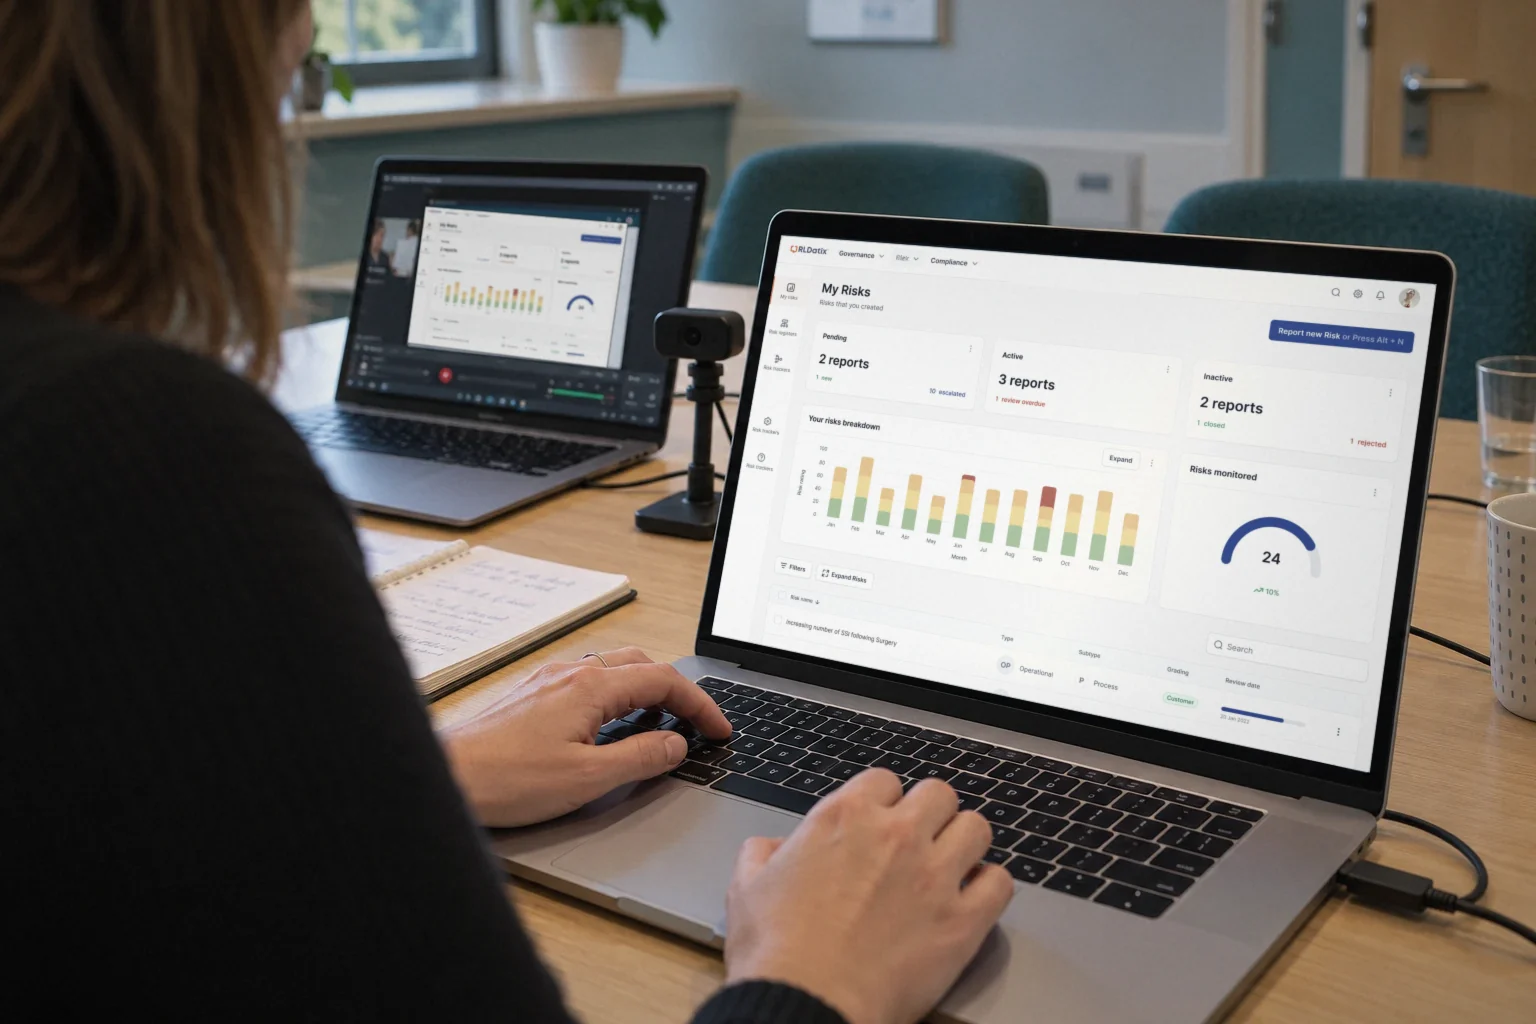
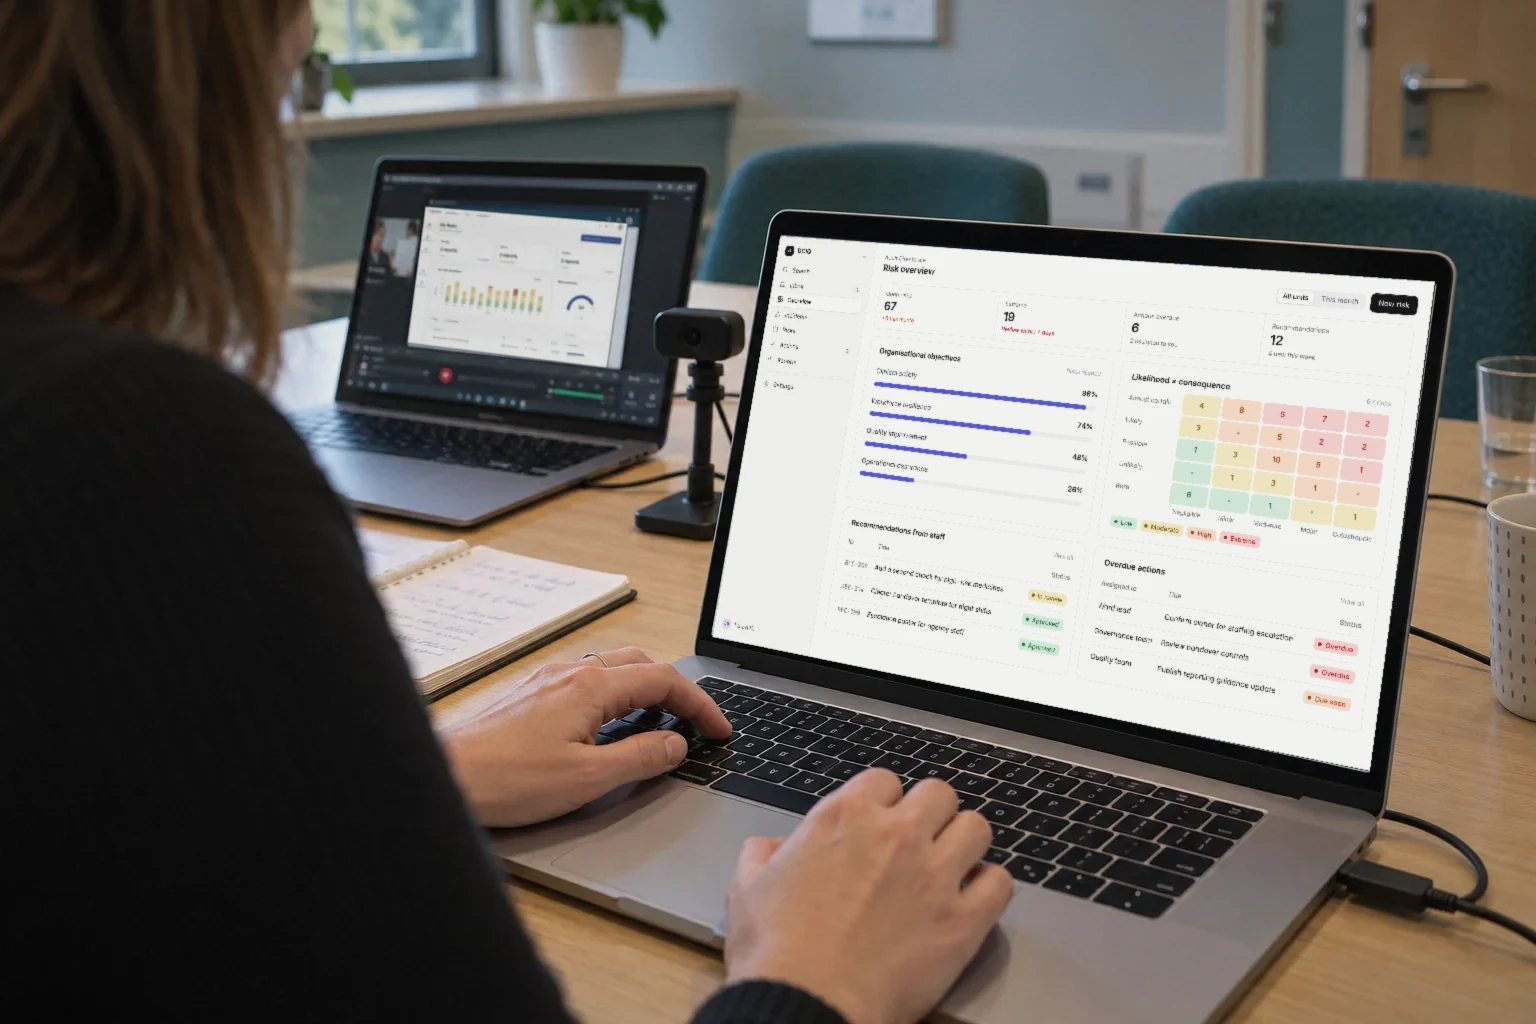
RLDatix: put the redesigned dashboard on the usability-test photo; consistent matrix totals
Claude-Session: https://claude.ai/code/session_019ui8k7Dsyc7QBDNyg3Qkj1

Changed region(s): [[0.5, 0.2188, 0.9375, 0.6562], [0.75, 0.5625, 0.9062, 0.75], [0.4688, 0.5938, 0.5, 0.625]]

diff --git a/case-study-rldatix.html b/case-study-rldatix.html
@@ -293,7 +293,7 @@
 <link rel="shortcut icon" href="favicon.ico?v=flower-2">
 <link rel="icon" type="image/svg+xml" href="favicon.svg?v=flower-2">
 
-<link rel="stylesheet" href="headings.css?v=4"><link rel="stylesheet" href="case-layout.css?v=2"><link rel="stylesheet" href="rldatix-studio.css?v=6"><link rel="stylesheet" href="rldatix-system.css?v=3"><script src="i18n.js?v=3"></script></head><body class="flex-case" id="top"><a class="skip-link" href="#v3-section-0">Skip to case study</a><div class="cursor" aria-hidden="true"></div><div class="cursor-dot" aria-hidden="true"></div><div class="progress" aria-hidden="true"><div class="progress-bar" id="progressBar"></div></div>
+<link rel="stylesheet" href="headings.css?v=4"><link rel="stylesheet" href="case-layout.css?v=2"><link rel="stylesheet" href="rldatix-studio.css?v=7"><link rel="stylesheet" href="rldatix-system.css?v=3"><script src="i18n.js?v=3"></script></head><body class="flex-case" id="top"><a class="skip-link" href="#v3-section-0">Skip to case study</a><div class="cursor" aria-hidden="true"></div><div class="cursor-dot" aria-hidden="true"></div><div class="progress" aria-hidden="true"><div class="progress-bar" id="progressBar"></div></div>
 <div class="page case-page"><nav class="nav" aria-label="Main navigation"><a class="nav-back" href="index.html"><span aria-hidden="true">←</span> Go back</a><ul class="nav-links"><li><a href="index.html#contact">Contact</a></li></ul></nav>
 
 <main>
@@ -305,10 +305,10 @@
 
 <figure class="rld-laptop rld-compare-laptop rs-surface rs-linen" data-comparison><div class="rld-laptop-hardware"><div class="rld-laptop-shell"><div class="rld-compare-scroll" tabindex="0" role="region" aria-label="Explore a legacy risk register and my redesigned risk dashboard. Scroll vertically to view both screens."><div class="rld-compare" data-compare-screen style="--split:50%"><div class="rs hd-wrap" data-no-i18n aria-hidden="true"><div class="hd rs-app"><aside class="rs-side" data-rs-side="Overview"></aside><div class="rs-main">
 <div class="rs-main-top"><div><span class="rs-crumb">Adult Directorate</span><h4>Risk overview</h4></div><div class="rs-top-actions"><span class="rs-seg"><b>All units</b><span>This month</span></span><span class="rs-btn">New risk</span></div></div>
-<div class="rs-kpis"><div><small>Open risks</small><strong>78</strong><em class="up">+6 this month</em></div><div><small>Extreme</small><strong>19</strong><em class="down">Review within 7 days</em></div><div><small>Actions overdue</small><strong>6</strong><em>2 assigned to you</em></div><div><small>Recommendations</small><strong>12</strong><em>4 new this week</em></div></div>
+<div class="rs-kpis"><div><small>Open risks</small><strong>67</strong><em class="up">+6 this month</em></div><div><small>Extreme</small><strong>19</strong><em class="down">Review within 7 days</em></div><div><small>Actions overdue</small><strong>6</strong><em>2 assigned to you</em></div><div><small>Recommendations</small><strong>12</strong><em>4 new this week</em></div></div>
 <div class="hd-grid">
 <section class="rs-pane"><header><strong>Organisational objectives</strong><small>Risks aligned</small></header><div class="hd-obj"><div><span>Clinical safety</span><b>96%</b></div><span class="rs-bar"><i style="width:96%"></i></span></div><div class="hd-obj"><div><span>Workforce resilience</span><b>74%</b></div><span class="rs-bar"><i style="width:74%"></i></span></div><div class="hd-obj"><div><span>Quality improvement</span><b>48%</b></div><span class="rs-bar"><i style="width:48%"></i></span></div><div class="hd-obj"><div><span>Operational assurance</span><b>26%</b></div><span class="rs-bar"><i style="width:26%"></i></span></div></section>
-<section class="rs-pane"><header><strong>Likelihood × consequence</strong><small>78 risks</small></header><div class="rs-matrix"><span class="ax">Almost certain</span><span class="rs-cell" data-band="mod" data-count="4">4</span><span class="rs-cell" data-band="high" data-count="8">8</span><span class="rs-cell" data-band="ext" data-count="5">5</span><span class="rs-cell" data-band="ext" data-count="7">7</span><span class="rs-cell" data-band="ext" data-count="2">2</span><span class="ax">Likely</span><span class="rs-cell" data-band="mod" data-count="3">3</span><span class="rs-cell" data-band="high" data-count="0">0</span><span class="rs-cell" data-band="high" data-count="5">5</span><span class="rs-cell" data-band="ext" data-count="2">2</span><span class="rs-cell" data-band="ext" data-count="2">2</span><span class="ax">Possible</span><span class="rs-cell" data-band="low" data-count="1">1</span><span class="rs-cell" data-band="mod" data-count="3">3</span><span class="rs-cell" data-band="high" data-count="10">10</span><span class="rs-cell" data-band="high" data-count="5">5</span><span class="rs-cell" data-band="ext" data-count="1">1</span><span class="ax">Unlikely</span><span class="rs-cell" data-band="low" data-count="0">0</span><span class="rs-cell" data-band="mod" data-count="1">1</span><span class="rs-cell" data-band="mod" data-count="3">3</span><span class="rs-cell" data-band="high" data-count="1">1</span><span class="rs-cell" data-band="high" data-count="0">0</span><span class="ax">Rare</span><span class="rs-cell" data-band="low" data-count="6">6</span><span class="rs-cell" data-band="low" data-count="0">0</span><span class="rs-cell" data-band="low" data-count="1">1</span><span class="rs-cell" data-band="mod" data-count="0">0</span><span class="rs-cell" data-band="mod" data-count="1">1</span><span></span><span class="ax col">Negligible</span><span class="ax col">Minor</span><span class="ax col">Moderate</span><span class="ax col">Major</span><span class="ax col">Catastrophic</span></div><div class="hd-legend"><span class="rs-chip low">Low</span><span class="rs-chip mod">Moderate</span><span class="rs-chip high">High</span><span class="rs-chip ext">Extreme</span></div></section>
+<section class="rs-pane"><header><strong>Likelihood × consequence</strong><small>67 risks</small></header><div class="rs-matrix"><span class="ax">Almost certain</span><span class="rs-cell" data-band="mod" data-count="4">4</span><span class="rs-cell" data-band="high" data-count="8">8</span><span class="rs-cell" data-band="ext" data-count="5">5</span><span class="rs-cell" data-band="ext" data-count="7">7</span><span class="rs-cell" data-band="ext" data-count="2">2</span><span class="ax">Likely</span><span class="rs-cell" data-band="mod" data-count="3">3</span><span class="rs-cell" data-band="high" data-count="0">0</span><span class="rs-cell" data-band="high" data-count="5">5</span><span class="rs-cell" data-band="ext" data-count="2">2</span><span class="rs-cell" data-band="ext" data-count="2">2</span><span class="ax">Possible</span><span class="rs-cell" data-band="low" data-count="1">1</span><span class="rs-cell" data-band="mod" data-count="3">3</span><span class="rs-cell" data-band="high" data-count="10">10</span><span class="rs-cell" data-band="high" data-count="5">5</span><span class="rs-cell" data-band="ext" data-count="1">1</span><span class="ax">Unlikely</span><span class="rs-cell" data-band="low" data-count="0">0</span><span class="rs-cell" data-band="mod" data-count="1">1</span><span class="rs-cell" data-band="mod" data-count="3">3</span><span class="rs-cell" data-band="high" data-count="1">1</span><span class="rs-cell" data-band="high" data-count="0">0</span><span class="ax">Rare</span><span class="rs-cell" data-band="low" data-count="6">6</span><span class="rs-cell" data-band="low" data-count="0">0</span><span class="rs-cell" data-band="low" data-count="1">1</span><span class="rs-cell" data-band="mod" data-count="0">0</span><span class="rs-cell" data-band="mod" data-count="1">1</span><span></span><span class="ax col">Negligible</span><span class="ax col">Minor</span><span class="ax col">Moderate</span><span class="ax col">Major</span><span class="ax col">Catastrophic</span></div><div class="hd-legend"><span class="rs-chip low">Low</span><span class="rs-chip mod">Moderate</span><span class="rs-chip high">High</span><span class="rs-chip ext">Extreme</span></div></section>
 <section class="rs-pane"><header><strong>Recommendations from staff</strong><small>View all</small></header><table class="hd-table"><thead><tr><th>ID</th><th>Title</th><th>Status</th></tr></thead><tbody><tr><td class=mono>REC-208</td><td>Add a second check for high-risk medicines</td><td><span class="rs-chip mod">In review</span></td></tr><tr><td class=mono>REC-204</td><td>Clearer handover template for night shifts</td><td><span class="rs-chip low">Approved</span></td></tr><tr><td class=mono>REC-199</td><td>Escalation poster for agency staff</td><td><span class="rs-chip low">Approved</span></td></tr></tbody></table></section>
 <section class="rs-pane"><header><strong>Overdue actions</strong><small>View all</small></header><table class="hd-table"><thead><tr><th>Assigned to</th><th>Title</th><th>Status</th></tr></thead><tbody><tr><td>Ward lead</td><td>Confirm owner for staffing escalation</td><td><span class="rs-chip ext">Overdue</span></td></tr><tr><td>Governance team</td><td>Review handover controls</td><td><span class="rs-chip ext">Overdue</span></td></tr><tr><td>Quality team</td><td>Publish reporting guidance update</td><td><span class="rs-chip high">Due soon</span></td></tr></tbody></table></section>
 </div></div></div></div><div class="rld-compare-old"><img class="rld-compare-image" src="assets/rldatix/legacy-laptop-outlined.svg" alt="Legacy DCIQ risk register shown for context" width="614" height="518" loading="lazy" draggable="false"></div><span class="rld-compare-divider" aria-hidden="true"><span>↔</span></span><input class="rld-compare-range" data-compare-range type="range" min="0" max="100" value="50" aria-label="Explore the legacy risk register and the redesigned dashboard" aria-valuetext="Showing both screens"></div></div></div><div class="rld-laptop-hinge" aria-hidden="true"></div><div class="rld-laptop-deck" aria-hidden="true"><div class="rld-laptop-deck-plane"><div class="rld-speaker rld-speaker-left"></div><div class="rld-keyboard"><div class="rld-key-row"><span class="rld-key is-wide"></span><span class="rld-key"></span><span class="rld-key"></span><span class="rld-key"></span><span class="rld-key"></span><span class="rld-key"></span><span class="rld-key"></span><span class="rld-key"></span><span class="rld-key"></span><span class="rld-key"></span><span class="rld-key"></span><span class="rld-key"></span><span class="rld-key"></span><span class="rld-key is-wide"></span></div><div class="rld-key-row"><span class="rld-key is-wide"></span><span class="rld-key"></span><span class="rld-key"></span><span class="rld-key"></span><span class="rld-key"></span><span class="rld-key"></span><span class="rld-key"></span><span class="rld-key"></span><span class="rld-key"></span><span class="rld-key"></span><span class="rld-key"></span><span class="rld-key"></span><span class="rld-key"></span><span class="rld-key is-wide"></span></div><div class="rld-key-row"><span class="rld-key is-wide"></span><span class="rld-key"></span><span class="rld-key"></span><span class="rld-key"></span><span class="rld-key"></span><span class="rld-key"></span><span class="rld-key"></span><span class="rld-key"></span><span class="rld-key"></span><span class="rld-key"></span><span class="rld-key"></span><span class="rld-key"></span><span class="rld-key"></span><span class="rld-key is-wide"></span></div><div class="rld-key-row"><span class="rld-key is-wide"></span><span class="rld-key"></span><span class="rld-key"></span><span class="rld-key"></span><span class="rld-key"></span><span class="rld-key"></span><span class="rld-key"></span><span class="rld-key"></span><span class="rld-key"></span><span class="rld-key"></span><span class="rld-key"></span><span class="rld-key"></span><span class="rld-key"></span><span class="rld-key is-wide"></span></div><div class="rld-key-row"><span class="rld-key is-wide"></span><span class="rld-key"></span><span class="rld-key"></span><span class="rld-key is-space"></span><span class="rld-key"></span><span class="rld-key"></span><span class="rld-key"></span><span class="rld-key is-wide"></span></div></div><div class="rld-speaker rld-speaker-right"></div><div class="rld-trackpad"></div></div></div><div class="rld-laptop-base" aria-hidden="true"></div></div>
@@ -564,11 +564,11 @@
 </section>
 <section class="cx-full rld-research" id="v3-section-5"><span class="mono-label">04 / TESTING</span><h2>Test the decisions.<br>Listen to the people using them.</h2>
 <p>I tested the designs with healthcare professionals and used their feedback to decide what to keep, change and improve.</p>
-<figure class="rld-research-photo"><img src="assets/rldatix/research-laptop.webp?v=2" alt="Illustrative reconstruction of laptop usability testing with the RLDatix risk-management interface" width="1536" height="1024" loading="lazy"></figure>
+<figure class="rld-research-photo"><img src="assets/rldatix/research-laptop.webp?v=3" alt="Illustrative reconstruction of a usability test, with the redesigned risk dashboard on the laptop" width="1536" height="1024" loading="lazy"></figure>
 <div class="rld-research-case"><div class="rld-research-case-heading"><span class="mono-label">A DECISION CHANGED BY RESEARCH</span><h3>Familiar language mattered more than a simpler label.</h3></div><ol class="rld-research-steps"><li><span>01 / HYPOTHESIS</span><h4>Try a clearer name</h4><p>Could “Grouped Risks” make “Risk trackers” easier to understand?</p></li><li><span>02 / FINDING</span><h4>Familiarity was clearer</h4><p>Clinicians already understood “Risk trackers”. A new label added confusion.</p></li><li><span>03 / DECISION</span><h4>Keep the term. Improve the flow.</h4><p>I kept “Risk trackers” and improved navigation hierarchy and the visibility of risk actions.</p></li></ol></div>
 <div class="rld-research-takeaway"><span class="mono-label">THE TAKEAWAY</span><p>Simplifying the interface doesn’t always mean changing its language.</p></div>
 <div class="rld-research-findings"><div><span class="mono-label">PROTOTYPE FINDINGS</span><h3>What we refined.<br>What came next.</h3></div><div><article><h4>Refine the experience</h4><p>Sessions highlighted navigation and dashboard content that needed work.</p></article><article><h4>Plan the next iteration</h4><p>Printing, sharing and a personal dashboard became priorities for later work.</p></article></div></div></section>
-</main><dialog class="rld-report-dialog" id="rld-report-dialog" aria-labelledby="rld-report-dialog-title"><div class="rld-report-dialog-inner"><button class="rld-report-dialog-close" type="button" aria-label="Close report form">×</button><span class="mono-label">NEW INCIDENT REPORT</span><h2 id="rld-report-dialog-title">Start a report</h2><p class="rld-report-dialog-intro">Add a few details so the right team can follow up.</p><div class="rld-dialog-category"><span class="rld-dialog-category-icon" id="rld-dialog-category-icon" aria-hidden="true"></span><div><small>EVENT TYPE</small><strong id="rld-dialog-category">Incident</strong></div></div><label class="rld-dialog-field">What happened?<textarea rows="3" placeholder="Briefly describe the event"></textarea></label><label class="rld-dialog-field">Where did it happen?<select><option value="">Choose a location</option><option>Ward 3</option><option>Emergency department</option><option>Other</option></select></label><div class="rld-dialog-actions"><button class="rld-dialog-cancel" type="button">Cancel</button><button class="rld-dialog-continue" type="button">Continue</button></div></div></dialog><footer class="footer" id="contact"><div class="footer-inner"><h2 class="footer-title">Let’s make products feel clear and useful.</h2><div class="footer-actions"><a class="pill-button" href="mailto:lrsmpdr@gmail.com" target="_blank" rel="noopener noreferrer">Email me ↗</a><a href="https://www.linkedin.com/in/laura-sampedro/" target="_blank" rel="noopener noreferrer">LinkedIn ↗</a></div><div class="footer-row"><span class="mono-label">© 2026 Laura Sampedro de la Rosa</span><a class="mono-label" href="#top">Back to top ↑</a></div></div></footer></div><script>if(I18n.lang==="es")document.write('<script src="i18n-es.js?v=14"><\/script>')</script><script>I18n.run()</script><script src="script.js"></script><script src="case-study.js"></script><dialog class="fv-lightbox" aria-label="Product screen detail"><button class="fv-close" type="button" aria-label="Close enlarged screen">Close ×</button><img alt=""></dialog><script src="case-media.js?v=2"></script><script src="case-experience.js?v=1"></script><script src="rldatix-laptop.js?v=3"></script><script src="rldatix-showcase.js?v=1"></script><script src="rldatix-studio.js?v=5"></script><script>
+</main><dialog class="rld-report-dialog" id="rld-report-dialog" aria-labelledby="rld-report-dialog-title"><div class="rld-report-dialog-inner"><button class="rld-report-dialog-close" type="button" aria-label="Close report form">×</button><span class="mono-label">NEW INCIDENT REPORT</span><h2 id="rld-report-dialog-title">Start a report</h2><p class="rld-report-dialog-intro">Add a few details so the right team can follow up.</p><div class="rld-dialog-category"><span class="rld-dialog-category-icon" id="rld-dialog-category-icon" aria-hidden="true"></span><div><small>EVENT TYPE</small><strong id="rld-dialog-category">Incident</strong></div></div><label class="rld-dialog-field">What happened?<textarea rows="3" placeholder="Briefly describe the event"></textarea></label><label class="rld-dialog-field">Where did it happen?<select><option value="">Choose a location</option><option>Ward 3</option><option>Emergency department</option><option>Other</option></select></label><div class="rld-dialog-actions"><button class="rld-dialog-cancel" type="button">Cancel</button><button class="rld-dialog-continue" type="button">Continue</button></div></div></dialog><footer class="footer" id="contact"><div class="footer-inner"><h2 class="footer-title">Let’s make products feel clear and useful.</h2><div class="footer-actions"><a class="pill-button" href="mailto:lrsmpdr@gmail.com" target="_blank" rel="noopener noreferrer">Email me ↗</a><a href="https://www.linkedin.com/in/laura-sampedro/" target="_blank" rel="noopener noreferrer">LinkedIn ↗</a></div><div class="footer-row"><span class="mono-label">© 2026 Laura Sampedro de la Rosa</span><a class="mono-label" href="#top">Back to top ↑</a></div></div></footer></div><script>if(I18n.lang==="es")document.write('<script src="i18n-es.js?v=15"><\/script>')</script><script>I18n.run()</script><script src="script.js"></script><script src="case-study.js"></script><dialog class="fv-lightbox" aria-label="Product screen detail"><button class="fv-close" type="button" aria-label="Close enlarged screen">Close ×</button><img alt=""></dialog><script src="case-media.js?v=2"></script><script src="case-experience.js?v=1"></script><script src="rldatix-laptop.js?v=3"></script><script src="rldatix-showcase.js?v=1"></script><script src="rldatix-studio.js?v=5"></script><script>
 (()=>{const dialog=document.getElementById("rld-report-dialog");if(!dialog)return;const category=document.getElementById("rld-dialog-category");const categoryIcon=document.getElementById("rld-dialog-category-icon");const detail=document.getElementById("rld-report-details");let selected="Incident";
 document.querySelectorAll(".rld-icon-launch").forEach(button=>button.addEventListener("click",()=>{selected=button.dataset.reportCategory||"Incident";category.textContent=selected;const icon=button.querySelector(".rld-icon-launch-art svg");if(icon&&categoryIcon)categoryIcon.replaceChildren(icon.cloneNode(true));dialog.showModal()}));
 dialog.querySelector(".rld-report-dialog-close").addEventListener("click",()=>dialog.close());

diff --git a/i18n-es.js b/i18n-es.js
@@ -1200,4 +1200,5 @@ window.I18N_ES = {
 "Explore two screens: a legacy risk register and the dashboard redesigned in the shared system. Drag to compare.": "Explora dos pantallas: un registro de riesgos antiguo y el dashboard rediseñado con el sistema compartido. Arrastra para comparar.",
 "Explore a legacy risk register and my redesigned risk dashboard. Scroll vertically to view both screens.": "Explora un registro de riesgos antiguo y mi dashboard de riesgos rediseñado. Desplázate en vertical para ver ambas pantallas.",
 "Explore the legacy risk register and the redesigned dashboard": "Explorar el registro de riesgos antiguo y el dashboard rediseñado",
+"Illustrative reconstruction of a usability test, with the redesigned risk dashboard on the laptop": "Reconstrucción ilustrativa de un test de usabilidad, con el dashboard de riesgos rediseñado en el portátil",
 };

diff --git a/rldatix-studio.css b/rldatix-studio.css
@@ -332,3 +332,4 @@
 .hd-table td:last-child{text-align:right;padding-right:0}.hd-table th:last-child{text-align:right}
 .hd-table td.mono{font:400 11.5px/1 var(--font-mono);color:var(--u-mute)}
 .rld-compare-scroll{scrollbar-color:#a1a1aa #f4f4f5!important}
+.hd-table td.mono{white-space:nowrap}.hd-table td:nth-child(2){padding-right:14px}
